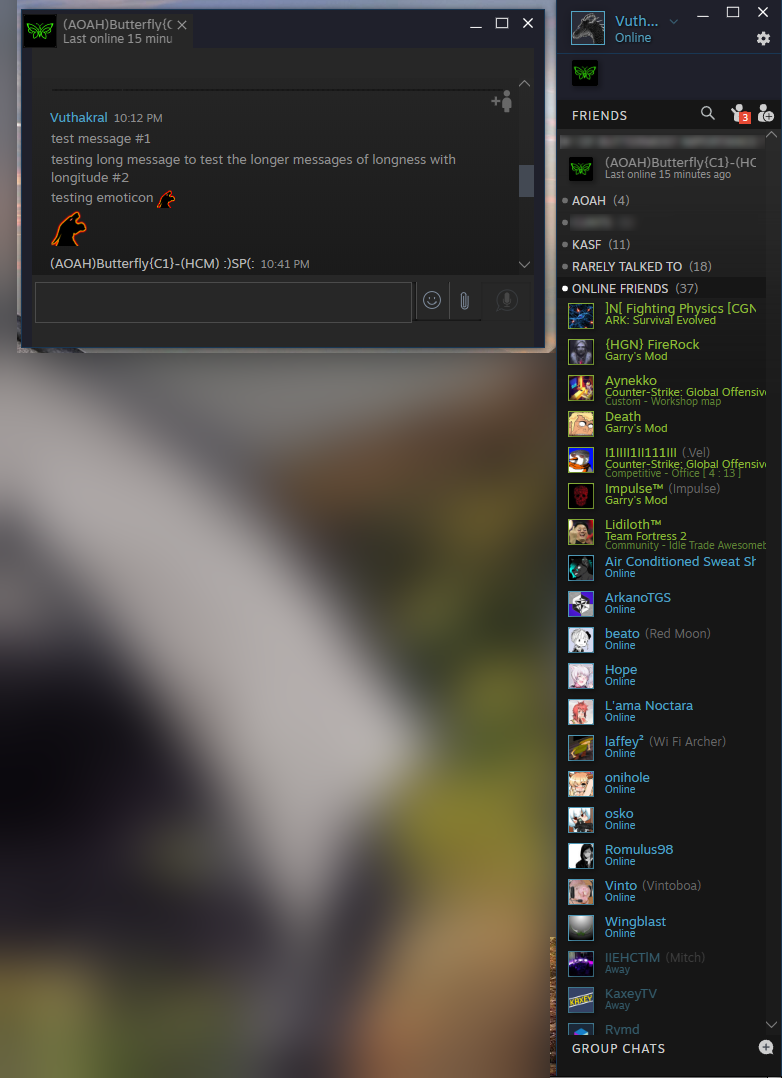
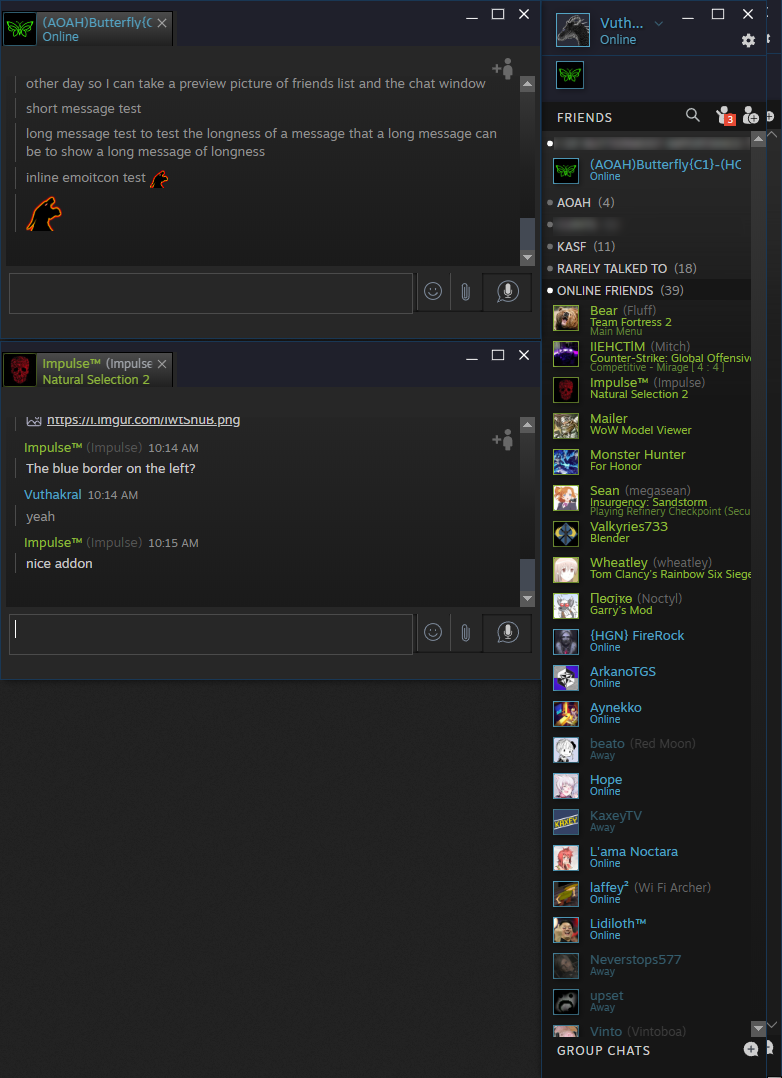
update 0.2: - changed scrollbar to mimic the old steam UI - friends chat window is now almost 1:1 - added padding to the top of the chat window to make it easier to drag when multiple chat tabs are open - custom/new addition: Added a small faded grey line to the left of a message to help distinguish

diff --git a/friends.custom.css b/friends.custom.css
@@ -8,6 +8,7 @@
   --offline: 145, 145, 145;
   --scrollbarSize: 15px;
   --scrollbarBG: 32, 32, 32;
+  --scrollbarBtn: 88, 88, 88;
   --textentry: 39, 39, 39;
   --white05: 255,255,255, 0.05;
   --white50: 255,255,255, 0.5;
@@ -312,6 +313,7 @@ background: rgb(var(--clientBG)) !important;
 .titleBarContainer.ChatTabs {
     background: rgb(var(--header_dark)) !important;
 	border: none!important;
+	padding-top: 10px !important;
 }
 .chatEntryControls{
 	background-color: rgb(var(--textentry)) !important;
@@ -359,11 +361,15 @@ background-color: rgb(var(--focus))!important;}
 	background: rgb(var(--textentry))!important;
 	min-height: 30px !important;
 }
-.chatTabList .chatTab, .ChatTabsBackButton {
+.chatTabList, .ChatTabsBackButton {
     background: rgb(var(--textentry)) !important; /*rgba(var(--white05))*/
     margin-right: 1px!important;
 	border: 0!important;
 	/*border-bottom: 1px solid #0072c6 !important;*/
+}
+
+.chatTab {
+	background: linear-gradient(rgb(75, 75, 75), rgb(32,32,32)) !important;
 }
 
 .chatEntry {
@@ -641,7 +647,7 @@ color: rgb(140,140,140)!important;
 
 .chatWindow ::-webkit-scrollbar,
 .friendlist ::-webkit-scrollbar{
-	background: rgb(var(--scrollbarCol)) !important;
+	background: linear-gradient(rgb(75, 75 75), rgb(32, 32, 32))!important;
 	width: var(--scrollbarSize) !important;
 }
 /* scroll bar button */ 
@@ -649,7 +655,7 @@ color: rgb(140,140,140)!important;
     height: 16px!important; 
     border-radius: 0px!important; 
     color: (var(--scrollbarCol)) !important; 
-    border: 0px solid transparent!important;
+    border: 2px solid transparent!important;
 }
 /* disables scroll buttons at settings */
 .DialogBody::-webkit-scrollbar-button {
@@ -662,20 +668,22 @@ color: rgb(140,140,140)!important;
 /* arrow buttons at scroll bar */
 /* Down */
 ::-webkit-scrollbar-button:vertical:increment {
-    background-image: url(https://i.imgur.com/MSeJirr.png)!important;
+    background-image: url("https://i.imgur.com/9T9rV6q.png") !important;
     background-repeat: no-repeat!important;
     background-position: 0px 0px!important;
+	background-color: rgb(var(--scrollbarBtn)) !important;
 }
 /* Up */
 ::-webkit-scrollbar-button:vertical:decrement { 
-    background-image: url(https://i.imgur.com/U6H0Z62.png)!important;
+    background-image: url("https://i.imgur.com/QM79gsk.png") !important;
     background-repeat: no-repeat!important;
     background-position: 0px 0px!important;
+	background-color: rgb(var(--scrollbarBtn)) !important;
 }
 /* background behind scrollbar */
 ::-webkit-scrollbar-track {
 	color: rgba(255,255,255,0);
-    background-color:rgba(255,255,255,0) !important;
+    background:	linear-gradient(rgb(54, 54, 54), rgb(32, 32, 32), rgb(22, 22, 22)) !important;
 }
 /* hovering for the scrollbar itself */
 ::-webkit-scrollbar-thumb:hover {
@@ -898,8 +906,8 @@ fill: rgb(113,113,113)!important;}
   background: rgb(var(--clientbg)) !important;
   color: #8c8c8c !important;
   padding: 18px 10px 4px 12px !important;
-  font-weight: 300!important;
-  text-transform: uppercase!important;
+  font-weight: normal !important;
+  transition-duration: 0s !important;
  }
 
 .chatTab .chatTabHighlight {
@@ -1079,10 +1087,13 @@ background: rgb(var(--focus)) !important;}
 
 /*URLs*/
 .msg a {
-color: rgb(var(--white75))!important;
-text-decoration: underline !important;
-border-bottom: none!important;
-white-space: initial!important;}
+	color: rgb(var(--white75))!important;
+	text-decoration: underline !important;
+	border-bottom: none!important;
+	white-space: initial!important;
+	padding-top: 0px;
+	padding-bottom: 5px;
+}
 
 .msg .OpenGraphMessageURL, .OpenGraphMessageURL_full{
 color: rgb(var(--white75))!important;}
@@ -1138,15 +1149,27 @@ background:rgb(53,53,53)!important;
 	  color: rgba(var(--white50))!important;}
 
 .SingleUserChat .msg{
-margin-right: 4px!important;
+	margin-right: 4px!important;
 }
 
 .SingleUserChat .msgText{
+position: relative !important;
 margin-right: 6px!important;
-  margin-left: 8px!important; }
+  margin-left: 8px!important;
+	padding-top: 0px !important;
+	padding-bottom: 2px !important;  
+}
   
 .MultiUserChat .isCurrentUser .msgText {
-color: rgb(var(--offline))!important;}
+color: rgb(var(--offline))!important;
+	padding-top: 0px !important;
+	padding-left: 0px !important;
+}
+
+.MultiUserChat {
+	border-left: 5px solid rgb(var(--textentry)) !important;
+	border-right: 5px solid rgb(var(--textentry)) !important;
+}
 	  
 .FriendMessageCount{
 z-index: 99 !important;}
@@ -1216,7 +1239,10 @@ color: #8d8d8d!important;}
 padding-left: 10px!important;}
 
 .MultiUserChat .msg {
-padding: 1.2px 0!important;}
+padding: 1.2px 0!important;
+border-left: 1px solid rgb(var(--BorderMidGrey)) !important;
+margin-bottom: 5px !important;
+}
 
 .ChatRoomSpeaker {
 padding-top: 0px!important;
